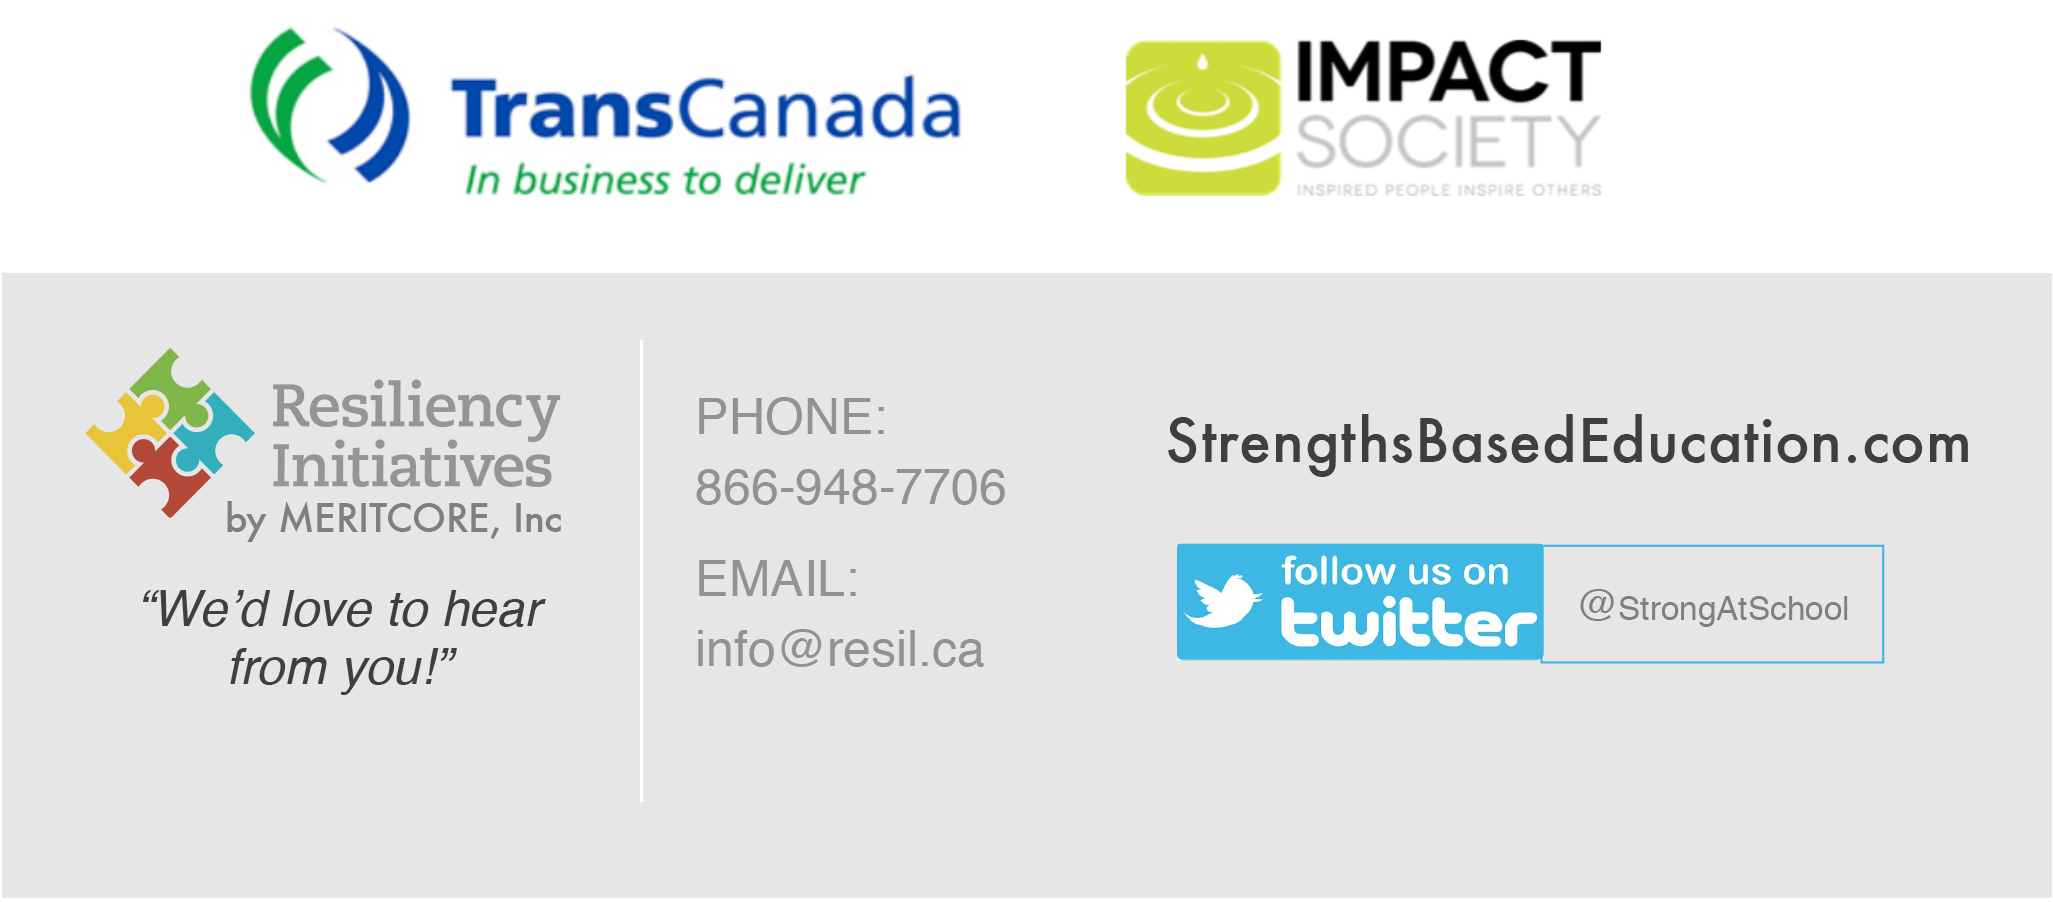
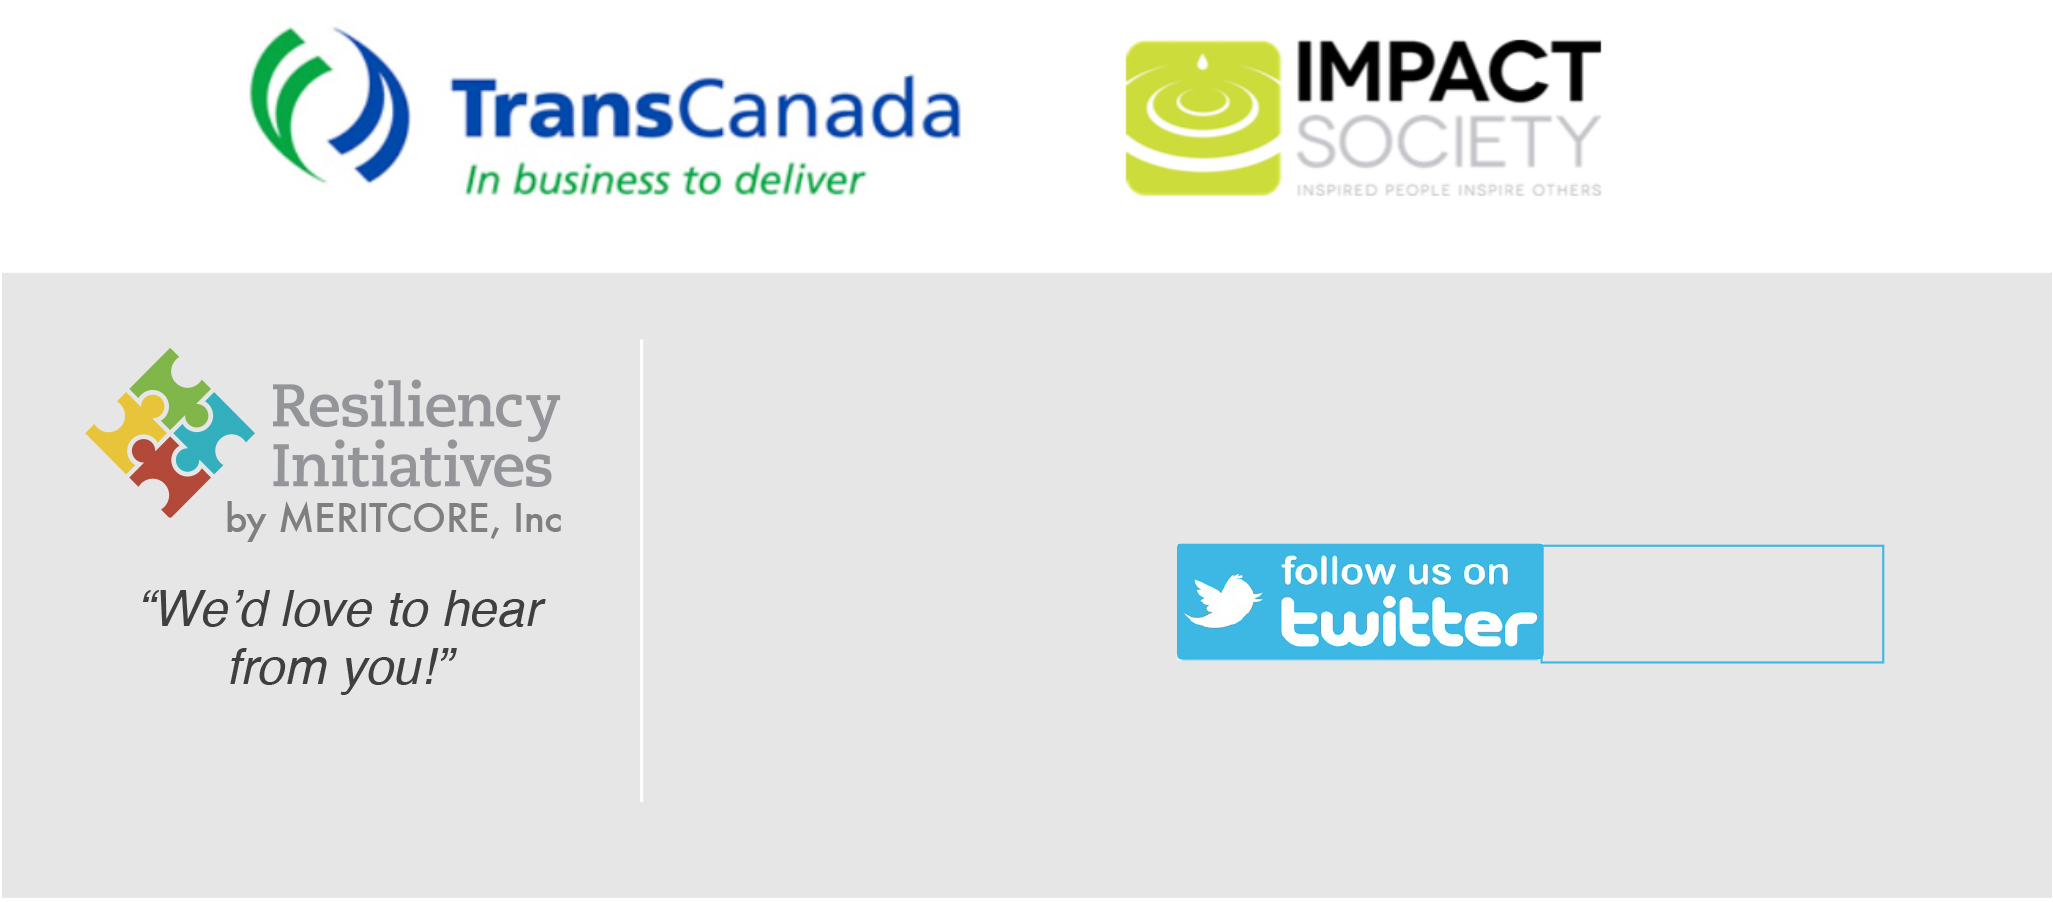
Ongoing

diff --git a/public/front/css/print.css b/public/front/css/print.css
@@ -14,7 +14,12 @@ body {
 .width-100 { width: 100%; }
 .width-70 { width: 70%;  }
 
-.footer { position: absolute; bottom: 250px; }
+.footer 					{ position: absolute; bottom: 0px; }
+.footer .content 			{ position: absolute; top: 0; left: 0; }
+.footer .content .twitter 	{ position: absolute; top: 180px; right: 65px; color: #888; font-size: 8pt; text-decoration: none; }
+.footer .content .web 		{ font-size: 12pt; color: #222; position: absolute; top: 120px; right: 60px; text-decoration: none;  }
+.footer .content .contact 	{ color: #888; font-size: 12pt; position: absolute; left: 220px; top: 120px; }
+.footer .content .contact a { color: #888; text-decoration: none; }
 
 .page-break {page-break-after: always;}
 

diff --git a/resources/views/front/manage/reports/impact.blade.php b/resources/views/front/manage/reports/impact.blade.php
@@ -31,11 +31,11 @@
 		</tr>
 		<tr>
 			<td><b>Questionnaires Start Date:</b></td>
-			<td>{{ get_date($survey->start_date) }}</td>
+			<td>{{ get_date($survey->start_date, "F j, Y") }}</td>
 		</tr>
 		<tr>
 			<td><b>Questionnaires End Date:</b></td>
-			<td>{{ get_date($survey->end_date) }}</td>
+			<td>{{ get_date($survey->end_date, "F j, Y") }}</td>
 		</tr>
 	</table>
 
@@ -47,7 +47,19 @@
 
 	<p>Prior to reviewing this information, please read the Limitations and Confidentiality statements in Appendix A.</p>
 
-	<img src="{{ url('public/front/img/report/footer.jpg') }}" class="width-100 footer" />
+	<div class="footer">
+		<img src="{{ url('public/front/img/report/footer.jpg') }}" class="width-100" />
+		<div class="content">
+			<a href="https://twitter.com/StrongAtSchool" class="twitter">@StrongAtSchool</a>
+			<a href="http://strengthsbasededucation.com/" class="web">StrengthsBasedEducation.com</a>
+			<div class="contact">
+				PHONE:<br />
+				866-948-7706<br /><br />
+				EMAIL:<br />
+				<a href="mailto:info@resil.ca">info@resil.ca</a><br />
+			</div>
+		</div>
+	</div>
 
 	<div class="page-break"></div>
 

diff --git a/app/Http/Controllers/Manage/SurveyController.php b/app/Http/Controllers/Manage/SurveyController.php
@@ -97,7 +97,9 @@ class SurveyController extends Controller {
 	    	$gdata[] = [$stat->grouping->title, $stat->strong_count, $stat->vulnerable_count];
 	    }
 
-		$plot = new \PHPlot(600, 400, $filename);
+		$plot = new \PHPlot(600, 450, $filename);
+
+		$plot->SetPlotAreaPixels(NULL, 70, 575);
 
 		$plot->SetImageBorderType('plain');
 
@@ -125,9 +127,11 @@ class SurveyController extends Controller {
 
 		$plot->SetDataColors([[149, 54, 34],[90, 156, 19],]);
 
+		$plot->SetImageBorderType('none');
+
 		$plot->SetYDataLabelPos('plotstack');
 		$plot->SetXDataLabelPos('plotdown');
-		$plot->SetLegendPosition(1, 0, 'plot', 1, 0, -5, 5);
+		$plot->SetLegendPosition(1, 0, 'plot', 1, 0, -250, -70);
 		$plot->SetIsInline(true);
 		$plot->SetOutputFile( app_path() . '/../public/front/img/report/charts/' . $filename );
 		$plot->DrawGraph();

diff --git a/app/Libraries/Graph/Graph.php b/app/Libraries/Graph/Graph.php
@@ -5271,7 +5271,7 @@ class PHPlot
         // Labels below the plot area
         if ($this->x_data_label_pos == 'plotdown' || $this->x_data_label_pos == 'both')
             $this->DrawText('x_label', $this->x_data_label_angle,
-                            $xpos, $this->plot_area[3] + $this->x_label_bot_offset,
+                            $xpos+20, $this->plot_area[3] + $this->x_label_bot_offset,
                             $this->ndx_datalabel_color, $xlab, 'center', 'top');
 
         // Labels above the plot area
